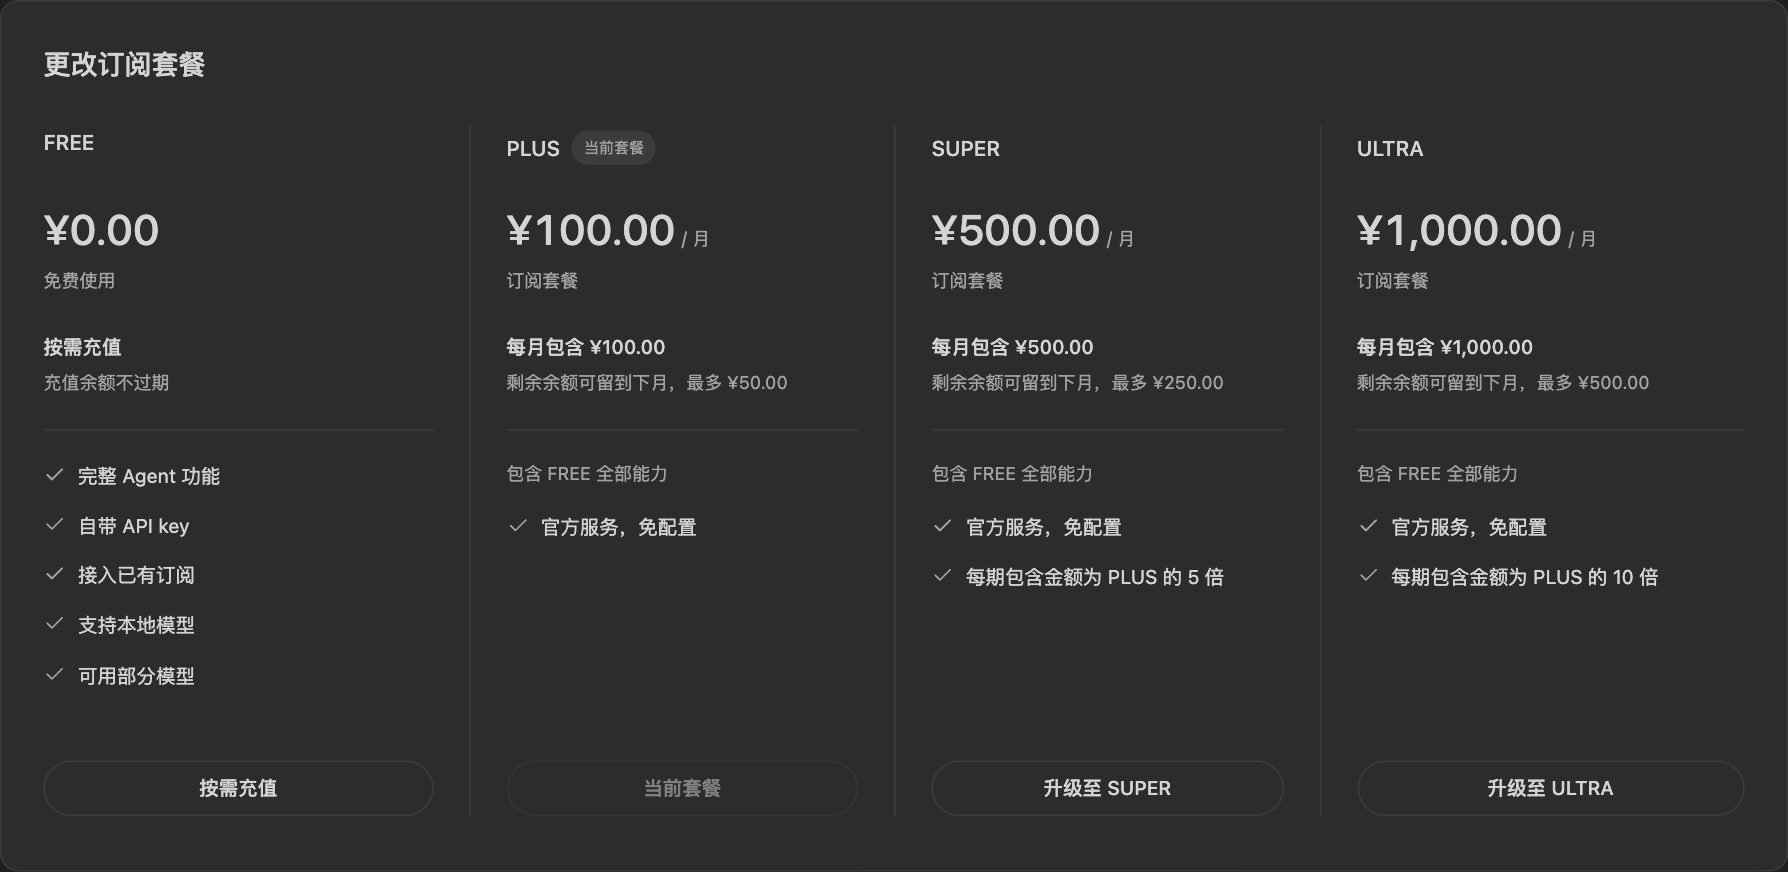
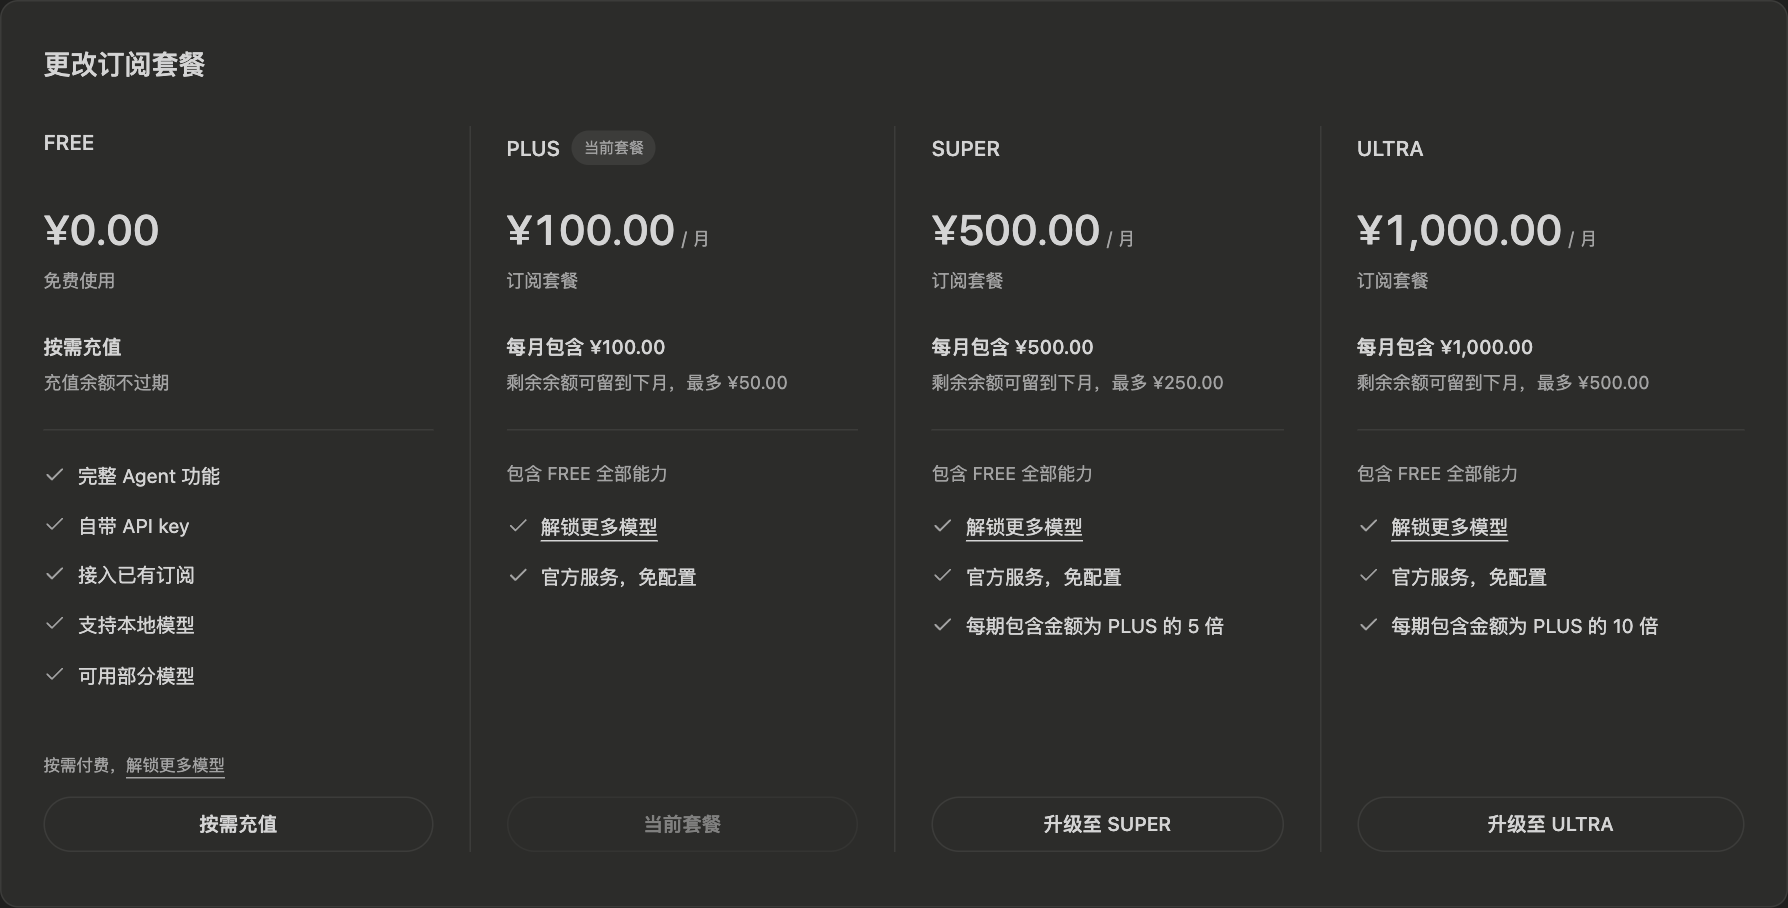
fix(billing): 套餐页面统一保留模型说明

diff --git a/apps/desktop/src/renderer/features/billing/PlanComparison.tsx b/apps/desktop/src/renderer/features/billing/PlanComparison.tsx
@@ -75,7 +75,6 @@ export function PlanComparison({
     };
   });
   const currency = selected[0]?.entry?.offer.currency;
-  const hasCurrentPlan = plans.some((plan) => plan.offers.some((entry) => entry.current));
   const buttonClass =
     'flex min-h-9 w-full items-center justify-center rounded-full border border-[var(--border-default)] px-3 py-2 text-13 font-medium transition-colors enabled:hover:bg-[var(--surface-hover-soft)] enabled:active:bg-[var(--surface-chip)] focus-visible:outline-none focus-visible:ring-2 focus-visible:ring-[var(--focus-ring)] disabled:cursor-not-allowed disabled:opacity-50';
   const modelsLink = (
@@ -114,14 +113,9 @@ export function PlanComparison({
             {['agent', 'apiKey', 'existingSubscription', 'localModels', 'basicModels'].map(feature)}
           </ul>
           <div className="mt-auto">
-            {!hasCurrentPlan && (
-              <p className="mb-3 text-11 leading-relaxed text-[var(--text-secondary)]">
-                <Trans
-                  i18nKey="billing.comparison.topupUnlock"
-                  components={{ models: modelsLink }}
-                />
-              </p>
-            )}
+            <p className="mb-3 text-11 leading-relaxed text-[var(--text-secondary)]">
+              <Trans i18nKey="billing.comparison.topupUnlock" components={{ models: modelsLink }} />
+            </p>
             <button
               type="button"
               className={buttonClass}
@@ -213,8 +207,7 @@ export function PlanComparison({
                   {t('billing.comparison.includesFree')}
                 </p>
                 <ul className="space-y-3">
-                  {!hasCurrentPlan && feature('advancedModels')}
-                  {feature('managedService')}
+                  {['advancedModels', 'managedService'].map(feature)}
                   {multiple !== null && Number.isInteger(multiple) && multiple > 1 && (
                     <li className="flex items-start gap-2 text-13 leading-relaxed">
                       <Check

diff --git a/apps/desktop/src/renderer/features/billing/__tests__/PlanChangeDialog.test.tsx b/apps/desktop/src/renderer/features/billing/__tests__/PlanChangeDialog.test.tsx
@@ -271,7 +271,11 @@ describe('PlanChangeTargetDialog product-first selection', () => {
       true,
     );
     expect(screen.queryByRole('combobox')).toBeNull();
-    expect(screen.queryByRole('link')).toBeNull();
+    const modelLinks = screen.getAllByRole('link', { name: 'billing.comparison.advancedModels' });
+    expect(modelLinks).toHaveLength(2);
+    for (const link of modelLinks) {
+      expect(link.getAttribute('href')).toBe('#/settings?tab=providers&connect=xd');
+    }
     fireEvent.click(screen.getByRole('button', { name: 'billing.catalog.currentPlan' }));
     expect(onSelect).not.toHaveBeenCalled();
   });
